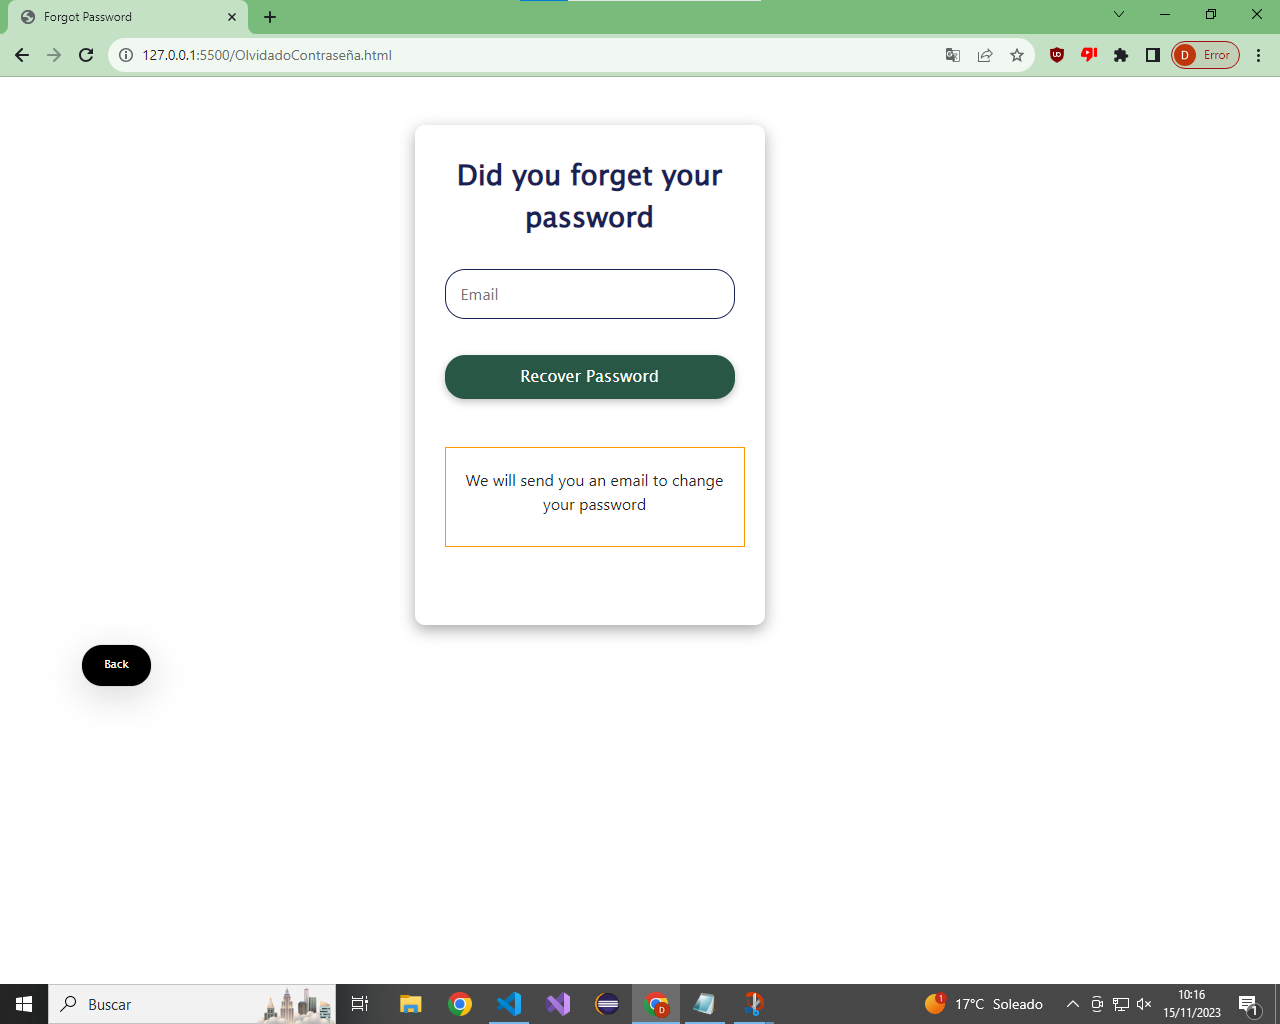
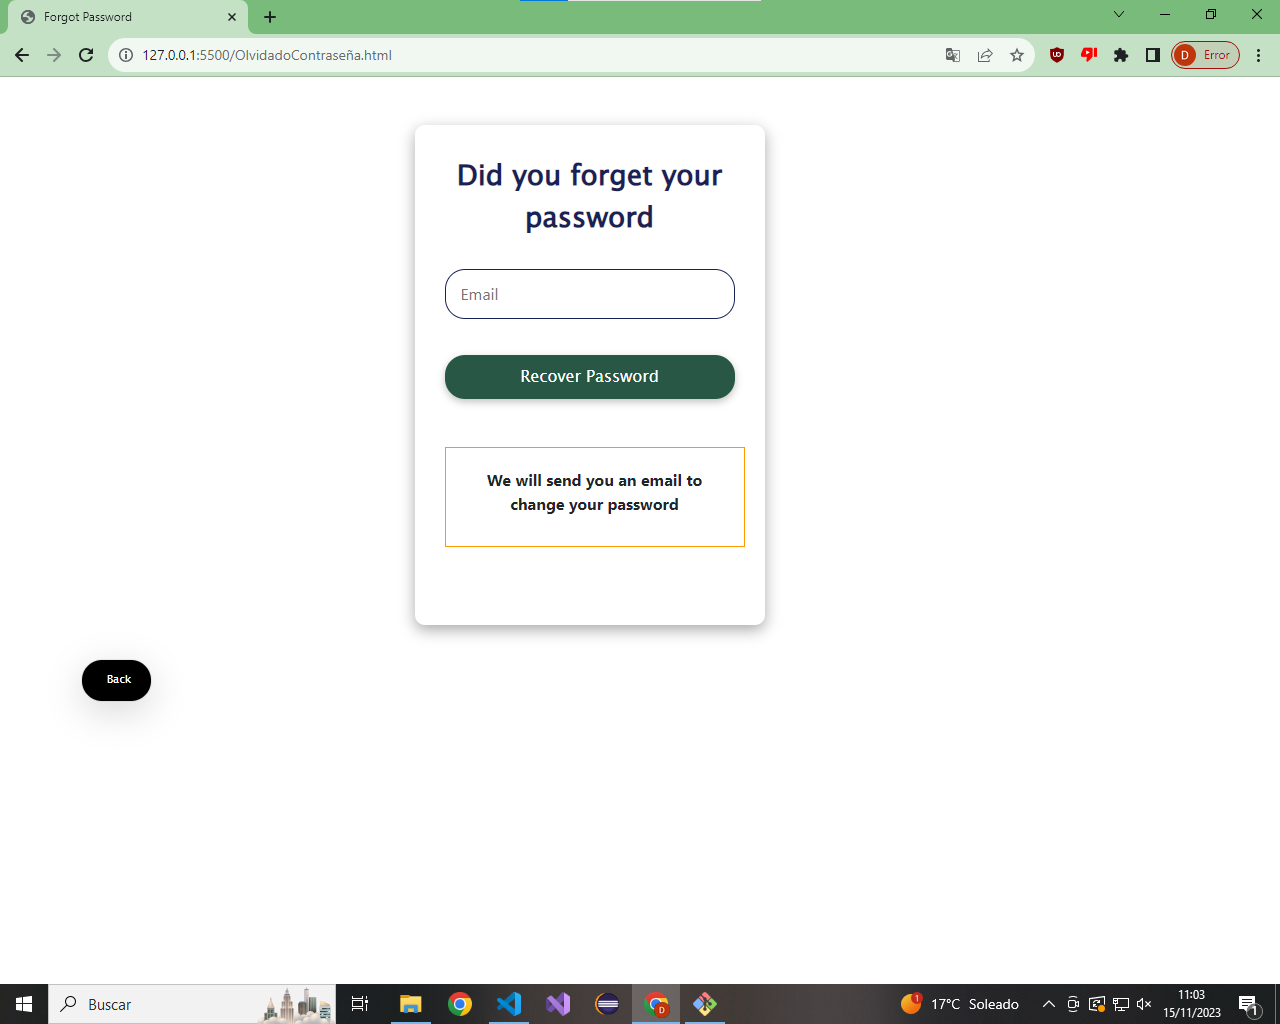
fin3

diff --git a/estilo.css b/estilo.css
@@ -152,3 +152,12 @@ a:hover {
     text-decoration: none; /* Quita el subrayado cuando el ratón está sobre el enlace */
     color: inherit; /* Mantiene el color del texto del elemento padre cuando el ratón está sobre el enlace */
 }
+
+p {
+    font-size: 16px; /* Tamaño del texto para los párrafos */
+}
+
+/* Cambiar el tamaño de los encabezados de nivel 1 */
+h1 {
+    font-size: 24px; /* Tamaño del texto para los encabezados h1 */
+}

diff --git a/OlvidadoContraseña.html b/OlvidadoContraseña.html
@@ -43,7 +43,7 @@ a:hover {
                       
                     <div class="mi-recuadro">
                         <!-- Contenido del recuadro -->                        
-                        <p>We will send you an email to change your password</p>
+                        <p><strong>We will send you an email to change your password</strong></p>
                     </div>
                     </form>
                     
